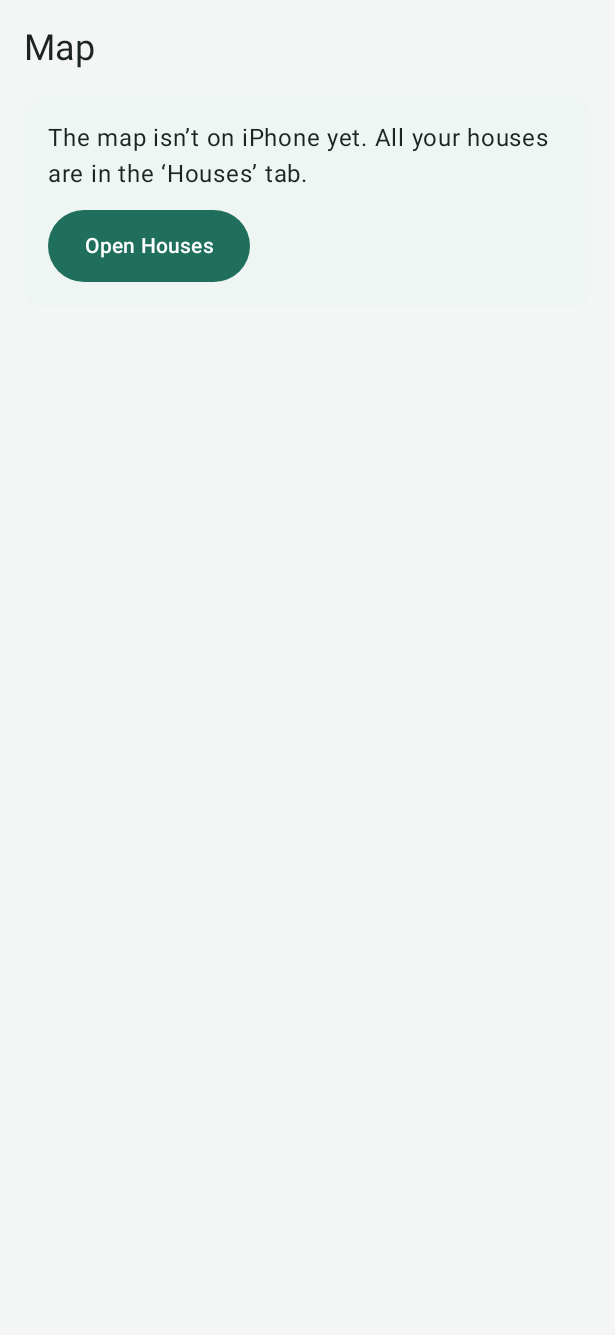
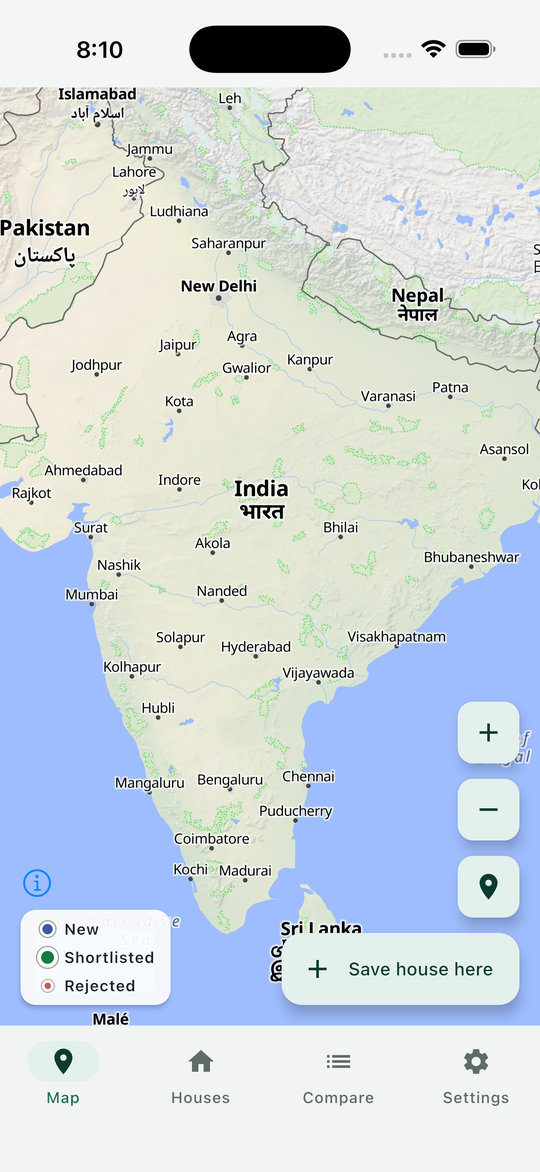
CMP-8c: first green iOS gate run; the guide's iPhone pages show the map
- guide: iphone-map.png is the ios-app launch screenshot of 61e1b40 (the map with India's rules); the old
  launch shot of the Houses tab without a map is removed; the table and the iPhone section say the map and
  adding houses work on iPhone.
- docs/10 §13.13: the first green run (indiaView and map PASS); docs/06 TC-I-38: Pass.

Claude-Session: https://claude.ai/code/session_011Vb12cKJLnh2PUgUarZgVx

diff --git a/docs/06-test-plan.md b/docs/06-test-plan.md
@@ -577,7 +577,7 @@ commonTest, 5 androidHostTest), `:shared` 200 (194 commonTest, 6 androidHostTest
 | TC-U-81 | Unit (Android JVM, `:ui` common) | **India's view on a style held as JSON, and the in-app boundary check** (CMP-8c, [10](10-sprint-log.md) §13.13; [03](03-design.md) ADR-22). `JsonStyleOpsTest` (commonTest, **11 tests**) runs `prepareMapStyle` (Liberty + `applyIndiaView` over `JsonStyleOps` + the house layers + `IndiaViewCheck`) on `LibertyExcerpt.kt`, an excerpt of the real OpenFreeMap Liberty style of 2026-09-29 (its tile source and eight layers, unchanged): no problem and no warning; the layer order Android gets (`boundary_3`, `in-boundary-state`, `boundary_2`, `in-boundary-world`, `in-boundary-claim`, … the two house layers on top); each rule ANDed to Liberty's own filter as JSON in Android's order; the disputed lines hidden and `boundary_2` from zoom 5; the outline inline, with `boundary_2`'s paint, `WORLD_MAX_ZOOM` and round caps, the state line with `boundary_3`'s dashes and butt caps from 5; the check fails on a shown `boundary_disputed`, a renamed `boundary_2`, a missing guard, held-areas or state-label rule; `loadedProblems` on a left-out layer, another order and a shown disputed layer; the house layers equal Android's markers (`MARKER_RADII`, `MarkerColors`); `housesGeoJson`. The full Liberty style of the same day, prepared the same way, passed the check and MapLibre's style-spec validator (0 errors) by hand. | Pass (Linux, 2026-09-29) |
 | TC-I-36 | Integration (backend + PostGIS) | **The server reports its highest sync version** ([10](10-sprint-log.md) S4b-BL-20). `ApiIntegrationTest.statsCarryTheHighestSyncVersion`: `GET /api/stats`' `maxSyncVersion` is at least every returned and pulled version and grows with a new write. `BackupApiTest.deleteAllKeepsTheHighestSyncVersion`: after `DELETE /api/data` it does not go back (the sequence, not the rows) | FR-021, FR-028 | **Exists** (PR #24). `mvn -B -ntp verify` (JDK 25, the `backend/db` image): 287 tests, 1 skipped |
 | TC-I-37 | Build and launch (iOS simulator, CI) | **The iPhone app builds and starts** (CMP-8b, [10](10-sprint-log.md) §13.12). Job `ios-app` in `shared-ios.yml` (macos-26, Xcode 26.4.1): XcodeGen 2.46.0 (checked with `shasum -a 256 -c`) generates `ios/Doorprints.xcodeproj`; `plutil -lint` on `Info.plist` and the four `InfoPlist.strings`; `xcodebuild build` for the simulator, ad-hoc signed, no identity or Apple account (`CODE_SIGN_IDENTITY=- CODE_SIGNING_REQUIRED=NO`); the app bundle holds `compose-resources`, `CADisableMinimumFrameDurationOnPhone`, the location and local network purpose strings and a valid signature (`codesign --verify`); then `ios/ci/launch-smoke.sh` boots an iPhone on the pinned SDK's runtime, installs the app, launches it with `-DoorprintsSelfCheck` and requires `DOORPRINTS-SELFCHECK done PASS` after the resources, database, settings and Keychain checks, read from the console or, when the console has no `done` line, from the simulator's unified log (`log show`, saved as `unified.log`); a Keychain SKIP, should the simulator still give the app no Keychain, is a warning; then it saves a screenshot. The screenshot, the launch log and the build log are uploaded (`ios-app-launch`) | [03](03-design.md) ADR-23 P8; [07](07-secure-build-and-deploy.md) §1 | **Exists** (CMP-8b). **First pass on PR #30 (`7dc7d48`)**: every check PASS, the Keychain included (ad-hoc signing); the four runs before it caught a real crash at launch (NSLog with a Kotlin String as a vararg, fixed) |
-| TC-I-38 | Build and launch (iOS simulator, CI) | **The iPhone map keeps India's boundary: the CI gate** (CMP-8c, [10](10-sprint-log.md) §13.13; owner decision of 2026-09-29: the in-app boundary check is the gate, TC-M-28 the device review). In the `ios-app` job (TC-I-37): the app bundle holds `MapLibre.framework`, `Package.resolved` pins MapLibre iOS to `13e41ab3…` (tag 6.31.0), and `geo/in-boundaries.geojson` and `geo/in-held-areas.geojson` are byte-identical (`cmp`) to the repository's; the launch smoke then requires `DOORPRINTS-SELFCHECK indiaView PASS` (the app downloads Liberty, applies the rules and `IndiaViewCheck` finds nothing) and `DOORPRINTS-SELFCHECK map PASS` (the Map, the start screen, loaded that style with every layer, in order, and `boundary_disputed` hidden, as `MLNMapView` reports it) as well as `done PASS`. Needs the network (the base style). | Pending (first run on this branch) |
+| TC-I-38 | Build and launch (iOS simulator, CI) | **The iPhone map keeps India's boundary: the CI gate** (CMP-8c, [10](10-sprint-log.md) §13.13; owner decision of 2026-09-29: the in-app boundary check is the gate, TC-M-28 the device review). In the `ios-app` job (TC-I-37): the app bundle holds `MapLibre.framework`, `Package.resolved` pins MapLibre iOS to `13e41ab3…` (tag 6.31.0), and `geo/in-boundaries.geojson` and `geo/in-held-areas.geojson` are byte-identical (`cmp`) to the repository's; the launch smoke then requires `DOORPRINTS-SELFCHECK indiaView PASS` (the app downloads Liberty, applies the rules and `IndiaViewCheck` finds nothing) and `DOORPRINTS-SELFCHECK map PASS` (the Map, the start screen, loaded that style with every layer, in order, and `boundary_disputed` hidden, as `MLNMapView` reports it) as well as `done PASS`. Needs the network (the base style). | Pass (`61e1b40`, run 36539902921, iPhone Air, iOS 26.4) |
 | TC-I-35 | Instrumented (Android; emulator and Firebase Test Lab) | **The installed debug APK works.** `SmokeTest` (`android/app/src/androidTest/java/app/doorprints/SmokeTest.kt`, AndroidJUnit4, Compose test rule): `everyTabOpens` (the app starts, and Houses, Compare, Settings and Map each open: 5 tab screenshots; the Assistant tab exists only with the server's AI features on, so it is not among them) and `addAHouseFromANewHouseIntent` (a new-house intent with coordinates opens the form, as a tap on the "Are you at a house?" notification does; the default name is **replaced** (`performTextReplacement`); Save (the top bar's button, not the one at the end of the scrolling form); the test waits for the saved house's page, "House details", then finds the house in the Houses list) and, since CMP-7, `theMapShowsIndiasBoundary` (waits for "Loading the map…" to go, taps *Zoom in* so the first framing never moves the camera, moves the `MapView` to India z4 (22.5, 80.0), Jammu and Kashmir with Ladakh z6 (35.0, 76.5) and Arunachal Pradesh z6 (28.0, 94.0), waits up to 45 s for a fully rendered frame, and saves `screens/20_map_india_z4.png`, `21_map_kashmir_ladakh_z6.png` and `22_map_arunachal_z6.png` through UiAutomation, which includes the GL surface, and `screens/map_notes.txt`: style and failure flags, which frames finished, and at zoom 4 the glyphs URL, the symbol layers and `queryRenderedFeatures`' placed labels; it passes when tiles do not load and says so in the notes). Location and notification permissions are granted by a `GrantPermissionRule`; the device language is English. Each step saves a screenshot through the androidx test storage service (`useTestStorageService`), which AGP pulls into `build/outputs/connected_android_test_additional_output`; a screenshot that cannot be saved (Test Lab has no storage service) does not fail the test. **Emulator:** `android-emulator.yml` job `emulator`, since 2026-09-24 (owner request) **API 26 (minSdk), 34 and 36 (targetSdk)** side by side with fail-fast off (API 34 alone before), `google_apis` x86_64 (`pixel_6` profile, KVM, SwiftShader GPU), `adb shell settings put global hide_error_dialogs 1` (the launcher's "isn't responding" dialog appeared over the app on the first run), `connectedDebugAndroidTest`, one artifact per level, `android-emulator-results-api-<level>` (screenshots, map notes, report, results; 14 days). **Emulator limitation:** on SwiftShader MapLibre Native lays out the base map's labels but does not draw them (CI run 35988442240, API 34: style loaded, 31 symbol layers, 49 labels placed at zoom 4 over India, none visible; maplibre-native issues #3939 and #3617, open), so the emulator's map screenshots show lines but no names; labels are checked on a device (TC-M-25, [10](10-sprint-log.md) S4b-BL-48). **Test Lab:** job `firebase-test-lab`, pushes to `main` and manual runs from `main` only, through its own Workload Identity provider, default device `model=MediumPhone.arm,version=34` (a dispatch input can change it), one device per run; the device runs fit the free Spark quota (10 virtual and 5 physical a day), but the results bucket needs a billing account, so the job is off by default at zero cost ([07](07-secure-build-and-deploy.md) §7.2 *Cost*) | FR-001, FR-006, FR-010, FR-011; R-01 (part); [03](03-design.md) ADR-23 | **Exists** (`afe4064`). **First emulator run** (CI run 35943533129, commit `afe4064`): `everyTabOpens` passed; `addAHouseFromANewHouseIntent` **failed on a real app crash**: opening the app from a new-house (or open-house, open-screen) notification while it was not running threw "Cannot navigate … Navigation graph has not been set", because `Root`'s deep-link `LaunchedEffect` ran before the `NavHost` (inside the Scaffold's subcomposition) had set its graph. **Fixed in this pull request** (`android/app/src/main/java/app/doorprints/ui/Root.kt`: the effect waits for `nav.currentBackStackEntryFlow.first()`). **Second emulator run** (commit `ef0a5dd`): `everyTabOpens` passed, Settings included, and the cold-start fix worked: the new-house form opened from the intent. `addAHouseFromANewHouseIntent` then failed because it tapped the form's **second** Save button, which sits off screen at the end of the scrolling column. **Fixed in `bc57361`**: the test taps the top bar's Save (`hasText("Save") and hasClickAction() and !hasAnyAncestor(hasScrollAction())`). **On `bc57361` the push run passed both smoke tests; the pull-request run on the same commit crashed in `everyTabOpens` (a threading bug, fixed in `6376706`); both runs on `6376706` passed (push and pull request).** The push run passed `everyTabOpens` and `addAHouseFromANewHouseIntent` (a cold start from a new-house intent, the house saved and shown in the list; screenshots in the `android-emulator-results` artifact). The pull-request run **found a second real bug**: `everyTabOpens` crashed with "Animators may only be run on Looper threads" because the Map's camera moved right after `currentLocation()`, which awaits a Play services `Task` that completes on a Binder thread; under the Compose test rule's coroutine interceptor the continuation was not dispatched back to main. The app's own main dispatcher switches back, so it was never seen in normal use, but the code relied on it. **Fixed** in `android/app/src/main/java/app/doorprints/ui/MapScreen.kt`: `currentLocation()` returns on the main thread (`withContext(Dispatchers.Main.immediate)`), which covers every caller: on the Map the first framing, "go to me" and "save here", plus the house form's and the Assistant's location lookups. Intermittent: it depends on timing. Not yet covered: cold starts from the open-house and open-screen notifications (`EXTRA_OPEN_HOUSE`, `EXTRA_OPEN_SCREEN`; backlog CMP-0-BL-6). Test Lab: off by default at zero cost (a results bucket needs a billing account); owner decision in [07](07-secure-build-and-deploy.md) §7.2 *Cost*. **API 26, 34 and 36 (PR #24):** the first run on three levels (run 35968526446, `e5e43af`) found a third real bug: on API 26 the map crashed with "No Vulkan compatible GPU found", because MapLibre's default Android build renders with Vulkan; fixed in `b47a67a` (the OpenGL ES build, [03](03-design.md) ADR-22). Every emulator run after it passed on all three levels, the last on `18b631e` (run 35992367819), with the three map screenshots per level |
 | TC-M-26 | Manual trigger, automated checks (live site) | **The live web UI, in detail, after a merge to `main` that runs the `Web` deploy** (owner rule, 2026-09-24; refined the same day: only after a web change, i.e. a change under `web.yml`'s path filter: `web/**`, `.github/workflows/web.yml`, `.github/firebase-tools/**`; an Android-only or docs-only merge skips it), once the deploy has finished: `cd tools/live-ui && npm ci && npx playwright install chromium && node live-ui.js [baseUrl] [outDir]` (defaults `https://doorprints.web.app` and `tools/live-ui/out`, both `node_modules/` and `out/` git-ignored; `CHROMIUM=<path>` for a local Chromium instead of the install step; about 10-20 minutes). **Exits 1 when any check fails.** **Pages:** 9 routes (`/`, `/compare`, `/data`, `/connect`, `/ask`, `/plan`, `/share`, `/houses/new?lat=…&lon=…`, a missing page) x 4 languages x 2 themes x phone (390 x 844) and desktop (1280 x 900) = **144 loads**; on each: it loads, `<html lang>`, a title, an `h1`, no horizontal scroll, no untranslated i18n key (the keys of `web/src/app/i18n/en.ts`, each matched with every regex metacharacter escaped, `escapeRegExp`; before, only dots were escaped, CodeQL's high finding "Incomplete string escaping", fixed), text in the language's script (hi, ta, te), the theme's background, **axe** (WCAG 2.1 A/AA tags; serious and critical findings fail) and no console error (one error listener per page, reset before each route, so a late error is not counted against the next route). **Flows** (phone and desktop, a fresh browser profile): add two houses, edit one and reload, both in the list, both on Compare, *Download* on *Your data* saves a file, the service worker is registered, the house opens **offline**, and both houses are deleted (gone from Compare and from the list at `/`). **Map:** `geo/in-boundaries.geojson` is served with the kinds `world`, `claim` and `state`; screenshots at six TC-M-25 spots (India at zoom 4, Kashmir 6, Arunachal Pradesh 7, Sikkim 9, the Singalila ridge 10, the Assam-Arunachal Pradesh state line 7) for a person to look at; they are not compared automatically. **Mobile** (since 2026-09-24, the owner's phone report; `ONLY=mobile` runs it alone): Playwright's Pixel 7 (every language, both themes), Galaxy S9+, iPhone SE and iPhone 14 profiles (touch, pixel ratio, mobile viewport), 320 and 360 px wide, both landscape, the owner's 384 x 615 at 130 % text and 360 px at 200 % text, on every route and a house page: no sideways scroll of the page or of `<main>`, no page laid out wider than the screen, touch targets of at least 44 x 44 px, fields in at least 16 px text, nothing under the bottom bar at the end of a page, MapLibre's controls inside the map and clear of its legend and buttons, the credits folded after 5 s, the map's labels drawn (glyphs downloaded and at least 1.5 % dark name pixels at the country view; counted under *map*), the list heading and counters above the bottom bar (unless the map is at its control-column minimum), the skip link hidden until focused, and the focused field above the keyboard; one house is added per profile, after the route checks. Results in `out/results.json` (pass and fail per area) and screenshots in `out/shots`. The browser context disables the site's CSP (`bypassCSP`) **only in the page matrix, to inject axe**: the site's CSP rightly refuses inline scripts. Nothing leaves the browser: no server is connected | NFR-006, NFR-007, FR-041, FR-098; TC-A-01; TC-M-19 (part: offline and the service worker); TC-M-25 (screens only) | **Exists.** **First run, 2026-09-24**, live site at deploy `4100f7a` (`main` `75f049d`): pages 720/720, i18n 240/240, theme 143/143 (one page's `rgba` background was not read by that version and not counted; read since round 2), a11y 144/144, flows 12/12, pwa 4/4, map 1/1, **console 145/146**. The one console error was a stylesheet served once as `text/plain`; it did not come back in 100 further loads (all `text/css`, from the server and from the service worker). The same run saw one `502` from this container's egress proxy, so the error is put down to the test environment, not the site. **Branch `claude/doorprints-dev-continue-fzcge2` at `2d28529`, against a local build** (not the live site; PR #24): pages 720/720, i18n 240/240, theme 144/144, a11y 144/144, console 366/366, flow 12/12, pwa 4/4, map 23/23, mobile 324/324, exit 0 (1 172 s). A local run needs `npm run build` in `web/` first and a static server for its output; local finding: that server must serve `.mjs` as JavaScript, or MapLibre's module worker never starts and no label is drawn (Firebase and the live site do). **Live site after PR #24, 2026-09-28** (deploy of `main` `3b33d37`, Web run 36011033945): pages 720/720, i18n 240/240, theme 144/144, a11y 144/144, flow 12/12, pwa 4/4, map 23/23, **console 363/366, mobile 322/324** (1 567 s). All 5 failures were on two pages whose loads this container's egress proxy broke: a stylesheet answered as `text/plain` (Pixel 7 landscape ta `/plan`; the 384 px, 130 % text profile, ta, missing page) and a `502` for `/plan` (iPhone SE landscape), and with no stylesheet the same pages failed the layout checks (981 px wide; 16 x 6 px zoom buttons). `curl` got `text/css` from Firebase every time, and a re-check of the three page loads, three times each with the same profiles, found the stylesheet applied, no sideways scroll, 44 x 44 px targets and no console error. The six map screenshots show India's outline around all of Jammu and Kashmir and Ladakh and one line at Sikkim (no loop at Nepal-China-India). Put down to the test environment, as on 2026-09-24. **Session note:** in a Claude Code cloud session, Chromium must trust the session proxy's CA in its NSS store (`~/.pki/nssdb`) first, or every load fails with `ERR_CERT_AUTHORITY_INVALID`; that step needs the owner's permission. **Web dependency update of 2026-09-28** (Angular 22.2, maplibre-gl 6.11.2; [10](10-sprint-log.md) §16), against a local build of branch `claude/sleepy-brown-479259` made with `npm run build` (the `sw-precache` stamp and the CSP `<meta>`; a build with `npx ng build` alone has no precache list and fails the two offline checks) and served with `.mjs` as JavaScript: pages 720/720, i18n 240/240, theme 144/144, a11y 144/144, console 366/366, flow 12/12, pwa 4/4, map 23/23, mobile 324/324 (1 216 s). The live-site run follows the deploy **Live site after PR #28, 2026-09-29** (deploy of `main` `22b43fd`: Angular 22.2, maplibre-gl 6.11.2): pages 720/720, i18n 240/240, theme 144/144, a11y 144/144, console 366/366, flow 12/12, pwa 4/4, map 23/23, mobile 324/324, **1 977 of 1 977**, exit 0 (1 467 s); the six map shots looked at: India's outline whole, all of Jammu and Kashmir, Ladakh and Arunachal Pradesh inside it, one line on the borders at Sikkim and the Singalila ridge; the Assam-Arunachal Pradesh state line is too faint at that shot's size to judge (unchanged since the maplibre-gl check found 17 views pixel-identical, [10](10-sprint-log.md) §16). |
 | TC-M-27 | Manual (Android devices; owner or QA) | **CMP-2 and the rename on real phones** (checks a JVM test cannot make; [10](10-sprint-log.md) S4b-BL-21). (1) A phone whose system languages are [Marathi, Hindi]: every screen and the Hunt mode notification are in Hindi, with no English left over. (2) The in-app language switch in Settings on **API 29 and API 34**: each of en, hi, ta and te, the "Language changed to …" snackbar in the new language, then every tab and a notification in it. (3) On **API 32 or lower**, with an app language other than the system's: rotate on each tab and on the house form; the text stays in the app language. (4) **Upgrade** from a build of `main` before PR #19 (applicationId already `app.doorprints`, Kotlin package and component names still `com.househunt.app`, database `househunt.db`) with its icon pinned to the home screen, some houses saved and a sync or backup queued: after installing the PR #19 build over it, the pinned icon still opens the app, the houses are there, a queued sync or backup still runs, and the server settings are kept | [03](03-design.md) ADR-23, ADR-24; [05](05-ux-accessibility-i18n.md) §8.2; FR-036 | **Not run yet** |

diff --git a/docs/10-sprint-log.md b/docs/10-sprint-log.md
@@ -2194,6 +2194,15 @@ when it leaves the screen (`shutDown()`: no location updates, no callbacks; firs
 negative direction to keep the bearing, the density read when it is used. No problem found in the Swift names Kotlin
 exports, the MapLibre 6.31.0 calls, the XcodeGen spec or `JsonStyleOps`' equivalence with `MapLibreStyleOps`.
 
+**First green run (`61e1b40`, 2026-09-29, Shared iOS compile run 36539902921):** the Swift map compiled against
+MapLibre iOS 6.31.0 from its package (the one earlier failure: a `release()` that clashed with `NSObject`'s, renamed);
+the bundle held `MapLibre.framework`, the pinned revision and both geo files unchanged; on an iPhone Air simulator
+(iOS 26.4) the self-check printed resources, database, settings, keychain, **indiaView and map PASS** and `done PASS`.
+The launch screenshot shows the Liberty map of India at the start camera with the legend, the attribution button,
+the zoom and location buttons and *Save house here*, and no Hunt card; it replaces the user guide's iPhone pictures
+(`guide/docs/images/iphone-map.png`; the old "no map yet" launch shot removed, the guide's table and iPhone section
+updated). Most of the smoke's 7 minutes were the simulator's first boot ("Waiting on Data Migration").
+
 **How it was verified:** on Linux, the full Android command of `CLAUDE.md`; the iOS Kotlin cross-compiled
 (`:ui:compileKotlinIosSimulatorArm64` with `-Pkotlin.native.enableKlibsCrossCompilation=true`, which caught one
 cinterop mistake before CI); every MapLibre iOS name the Swift file uses read in the 6.31.0 headers. The Swift file,

diff --git a/guide/docs/screen-at-a-glance.md b/guide/docs/screen-at-a-glance.md
@@ -40,7 +40,9 @@ has names and your houses as coloured pins, like the website's map. The **Houses
 
 ## iPhone
 
-The iPhone app is an early version. It opens on **Houses**. It cannot add houses yet: connect your own server in
-**Settings**, and the houses you added elsewhere show up. The **Map** tab says the map is not on iPhone yet.
+The iPhone app is an early version. It opens on the **Map**, which works as on Android: tap **Save house here** where
+you stand, or touch and hold the map to add a house anywhere. The tabs are **Map**, **Houses**, **Compare** and
+**Settings**. It has no Hunt mode, no photos and no **Save a copy** yet; connect your own server in **Settings** to see
+the houses you added elsewhere.
 
-<img src="images/iphone-launch.png" width="260" alt="The iPhone app on first launch: Houses tab with the message that houses cannot be added on iPhone yet and an Open Settings button"> <img src="images/iphone-map.png" width="260" alt="The iPhone Map tab: The map isn't on iPhone yet. All your houses are in the Houses tab, with an Open Houses button">
+<img src="images/iphone-map.png" width="260" alt="The iPhone app's Map: India with city names, the zoom and My location buttons, Save house here, the legend (New, Shortlisted, Rejected) and the four tabs">

diff --git a/guide/docs/index.md b/guide/docs/index.md
@@ -23,9 +23,9 @@ it is not in the Play Store yet. The iPhone app is new and still being tested; i
 
 | What you can do | Website | Android app | iPhone app (early) |
 |---|---|---|---|
-| Map of your houses | Yes | Yes | Not yet |
-| Add a house | Yes, pick the spot on the map | Yes, where you stand or anywhere on the map | Not yet |
-| Edit a house, rating, checklist, visits | Yes | Yes | Yes, for houses from your server |
+| Map of your houses | Yes | Yes | Yes |
+| Add a house | Yes, pick the spot on the map | Yes, where you stand or anywhere on the map | Yes, where you stand or anywhere on the map |
+| Edit a house, rating, checklist, visits | Yes | Yes | Yes |
 | Add photos | Yes | Yes (camera or gallery) | Not yet |
 | Search, filter, sort, **Compare** | Yes | Yes | Yes |
 | **Save a copy** (HTML, PDF, CSV, Excel, Markdown, full backup) | Yes | Yes, plus a weekly automatic backup | Not yet |
